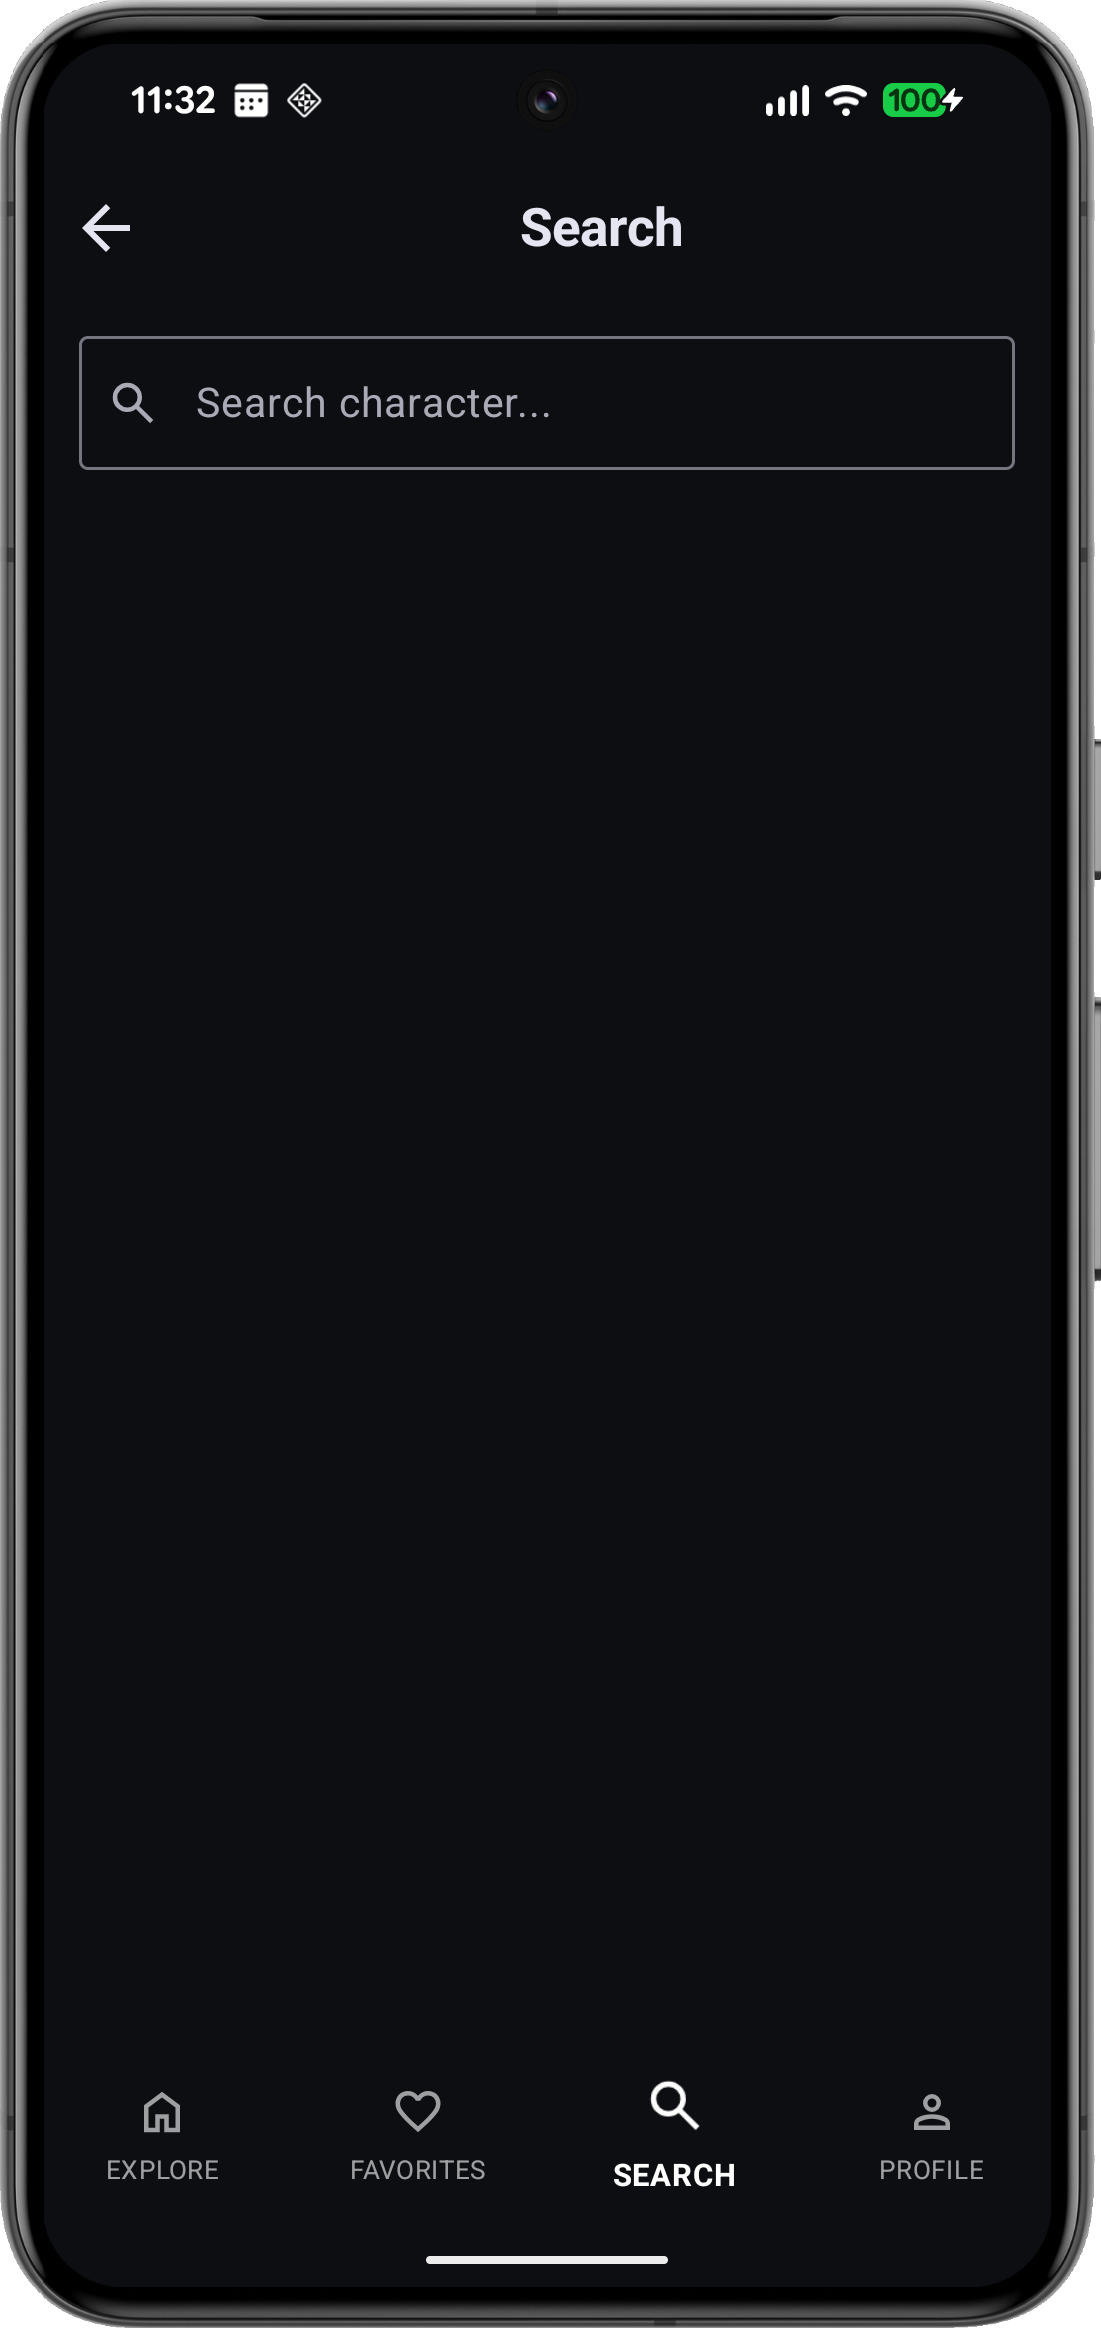
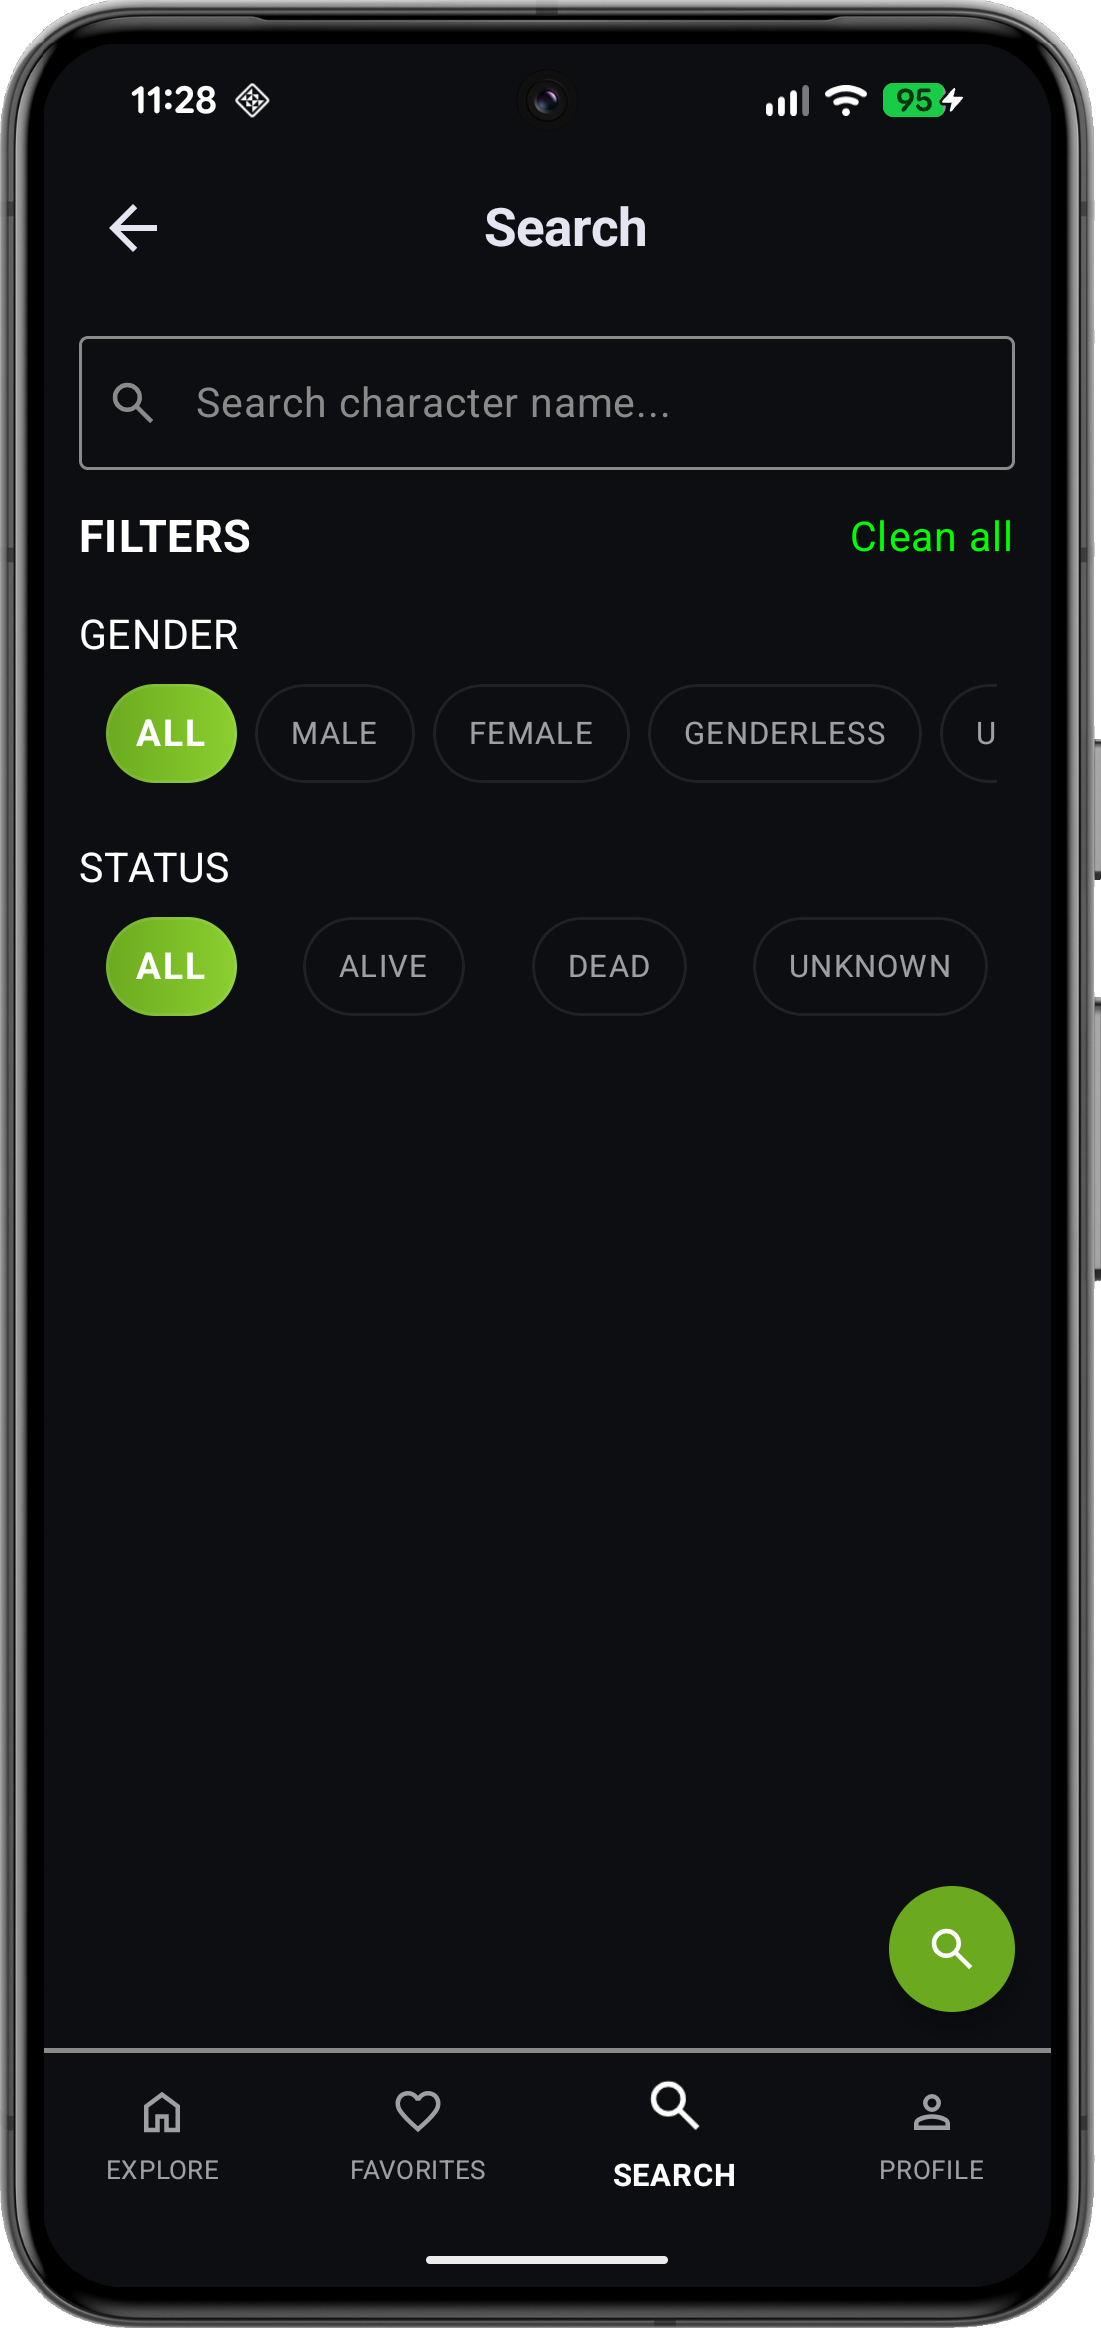
JNA - Update screenShots and refactor.

diff --git a/app/src/main/java/com/practice/rickyandmorty/presentation/profile/ProfileScreen.kt b/app/src/main/java/com/practice/rickyandmorty/presentation/profile/ProfileScreen.kt
@@ -33,6 +33,7 @@ import androidx.compose.ui.graphics.Color
 import androidx.compose.ui.res.painterResource
 import androidx.compose.ui.text.font.FontWeight
 import androidx.compose.ui.text.input.ImeAction
+import androidx.compose.ui.text.input.KeyboardType
 import androidx.compose.ui.tooling.preview.Preview
 import androidx.compose.ui.unit.dp
 import androidx.compose.ui.unit.sp
@@ -132,9 +133,11 @@ fun ProfileLoggedOut(
                 unfocusedTextColor = GrayMedium,
                 unfocusedBorderColor = GrayMedium,
                 unfocusedLabelColor = GrayMedium,
+                unfocusedTrailingIconColor = GrayMedium,
                 focusedLabelColor = Green,
                 focusedTextColor = Green,
-                focusedBorderColor = Green
+                focusedBorderColor = Green,
+                focusedTrailingIconColor = Green
             )
         )
 
@@ -167,19 +170,25 @@ fun ProfileLoggedOut(
                 onDone = { onLoginClick() }
             ),
             keyboardOptions = KeyboardOptions(
-                imeAction = ImeAction.Done
+                imeAction = ImeAction.Done,
+                keyboardType = KeyboardType.Email
             ),
             colors = OutlinedTextFieldDefaults.colors(
                 unfocusedTextColor = GrayMedium,
                 unfocusedBorderColor = GrayMedium,
                 unfocusedLabelColor = GrayMedium,
+                unfocusedTrailingIconColor = GrayMedium,
+                errorBorderColor = Color.Red,
+                errorTextColor = Color.Red,
+                errorTrailingIconColor = Color.Red,
                 focusedLabelColor = Green,
                 focusedTextColor = Green,
-                focusedBorderColor = Green
+                focusedBorderColor = Green,
+                focusedTrailingIconColor = Green
             )
         )
 
-        Spacer(modifier = Modifier.size(8.dp))
+        Spacer(modifier = Modifier.size(16.dp))
 
         OutlinedButton(
             onClick = { onLoginClick() },
@@ -188,7 +197,7 @@ fun ProfileLoggedOut(
                 containerColor = Green
             )
         ) {
-            Text(text = "Login")
+            Text(modifier = Modifier.padding(4.dp), text = "Login", fontSize = 18.sp)
         }
     }
 }

diff --git a/app/src/main/java/com/practice/rickyandmorty/ui/components/MyFavoriteButton.kt b/app/src/main/java/com/practice/rickyandmorty/ui/components/MyFavoriteButton.kt
@@ -13,14 +13,17 @@ import com.practice.rickyandmorty.R
 
 @Composable
 fun MyFavoriteButton(
-    isFavorite: Boolean = true,
-    onToggle: () -> Unit,
     modifier: Modifier = Modifier,
+    isFavorite: Boolean = true,
+    isDisable: Boolean = false,
+    onToggle: () -> Unit,
     size: Dp = 24.dp,
     tint: Color = Color.Red
 ) {
     IconButton(
-        onClick = onToggle,
+        onClick = {
+            if (!isDisable) onToggle()
+        },
         modifier = modifier
     ) {
         Icon(

diff --git a/app/src/main/java/com/practice/rickyandmorty/ui/components/Animations.kt b/app/src/main/java/com/practice/rickyandmorty/ui/components/Animations.kt
@@ -16,6 +16,7 @@ import androidx.compose.foundation.layout.BoxScope
 import androidx.compose.foundation.layout.Column
 import androidx.compose.foundation.layout.fillMaxSize
 import androidx.compose.foundation.layout.fillMaxWidth
+import androidx.compose.foundation.layout.size
 import androidx.compose.material3.Button
 import androidx.compose.material3.ButtonDefaults
 import androidx.compose.material3.Icon
@@ -32,6 +33,7 @@ import androidx.compose.ui.graphics.graphicsLayer
 import androidx.compose.ui.input.pointer.pointerInput
 import androidx.compose.ui.platform.LocalDensity
 import androidx.compose.ui.res.painterResource
+import androidx.compose.ui.unit.Dp
 import androidx.compose.ui.unit.dp
 import com.practice.rickyandmorty.R
 
@@ -39,6 +41,7 @@ import com.practice.rickyandmorty.R
 fun ExpandableContent(
     modifier: Modifier = Modifier,
     initialExpanded: Boolean = false,
+    size: Dp = 24.dp,
     content: @Composable () -> Unit
 ) {
     var isExpanded by remember { mutableStateOf(initialExpanded) }
@@ -75,7 +78,8 @@ fun ExpandableContent(
         ) {
             Icon(
                 modifier = Modifier
-                    .rotate(rotation),
+                    .rotate(rotation)
+                    .size(size),
                 painter = painterResource(R.drawable.keyboard_arrow_up_24px),
                 contentDescription = null
             )

diff --git a/app/src/main/java/com/practice/rickyandmorty/presentation/detail/CharacterDetailScreen.kt b/app/src/main/java/com/practice/rickyandmorty/presentation/detail/CharacterDetailScreen.kt
@@ -116,6 +116,7 @@ fun CharacterDetailItem(
             modifier = Modifier.align(Alignment.TopEnd),
             size = 32.dp,
             isFavorite = isFavorite,
+            isDisable = isFavorite,
             onToggle = { onFavoriteClick() }
         )
 
@@ -131,7 +132,8 @@ fun CharacterDetailItem(
                         bottomStart = 0.dp
                     )
                 ),
-            initialExpanded = true
+            initialExpanded = true,
+            size = 32.dp
         ) {
             CharacterInfoGrid(character)
         }

diff --git a/README.md b/README.md
@@ -14,9 +14,9 @@
 |:----------------------------------------------------------------------------:|:-------------------------------------------------------------------------:|
 | <img src="screenshots/FavoritesScreen.png" style="height: 25%; width:75%;"/> | <img src="screenshots/SearchScreen.png" style="height: 25%; width:75%;"/> |
 
-|                                  Profile                                   |
-|:-------------------------------------------------------------------------:|
-| <img src="screenshots/ProfileScreen.png" style="height: 25%; width:30%;"/> |
+|                                  Profile Logout                                  |                                  Profile Login                                  |
+|:--------------------------------------------------------------------------------:|:-------------------------------------------------------------------------------:|
+| <img src="screenshots/ProfileLogoutScreen.png" style="height: 25%; width:75%;"/> | <img src="screenshots/ProfileLoginScreen.png" style="height: 25%; width:75%;"/> |
 
 ## Instalación y Configuración
 
@@ -40,10 +40,11 @@ Para ejecutar este proyecto localmente, sigue estos pasos:
 - **Jetpack Compose**: Kit de herramientas moderno para crear interfaces de usuario nativas de Android.
 - **Hilt (Dagger)**: Biblioteca de inyección de dependencias para Android que reduce el código repetitivo.
 - **Retrofit & Moshi**: Cliente HTTP para consumir la API de Rick and Morty y biblioteca de serialización JSON.
-- **Coil**: Biblioteca de carga de imágenes moderna respaldada por corrutinas de Kotlin.
+- **Coil 3**: Biblioteca de carga de imágenes moderna respaldada por corrutinas de Kotlin.
 - **Paging 3**: Permite cargar y mostrar páginas de datos de un conjunto de datos más grande desde el almacenamiento local o la red.
 - **Navigation 3**: Sistema de navegación moderno para Compose que facilita la transición entre pantallas.
 - **Kotlin Coroutines & Flow**: Para el manejo de operaciones asíncronas y flujos de datos reactivos.
+- **Room**: Base de datos local para persistencia de datos y soporte offline.
 
 ---
 
@@ -59,12 +60,12 @@ MVI (Model-View-Intent) es un patrón unidireccional en el que la Vista emite In
 ## Cosas por Hacer (To Do)
 
 ### Pantallas y Funcionalidades
-- [ ] **Pantalla de Favoritos**: Permitir a los usuarios guardar sus personajes favoritos.
-- [ ] **Pantalla de Perfil**: Información detallada del usuario o estadísticas.
-- [ ] **Búsqueda Avanzada**: Filtros por estado, especie, género, etc.
+- [x] **Pantalla de Favoritos**: Permitir a los usuarios guardar sus personajes favoritos.
+- [x] **Pantalla de Perfil**: Información detallada del usuario o estadísticas.
+- [x] **Búsqueda Avanzada**: Filtros por estado, especie, género, etc.
 
 ### Mejoras Técnicas
-- [ ] **Soporte Offline con Room**: Implementar una base de datos local para que la app funcione sin conexión a internet.
+- [x] **Soporte Offline con Room**: Implementar una base de datos local para que la app funcione sin conexión a internet.
 - [ ] **Pruebas Unitarias y de UI**: Aumentar la cobertura de tests para asegurar la estabilidad.
 - [ ] **Animaciones Avanzadas**: Mejorar la experiencia de usuario con transiciones suaves entre pantallas.
 - [ ] **Modo Oscuro/Claro**: Soporte completo para temas dinámicos.